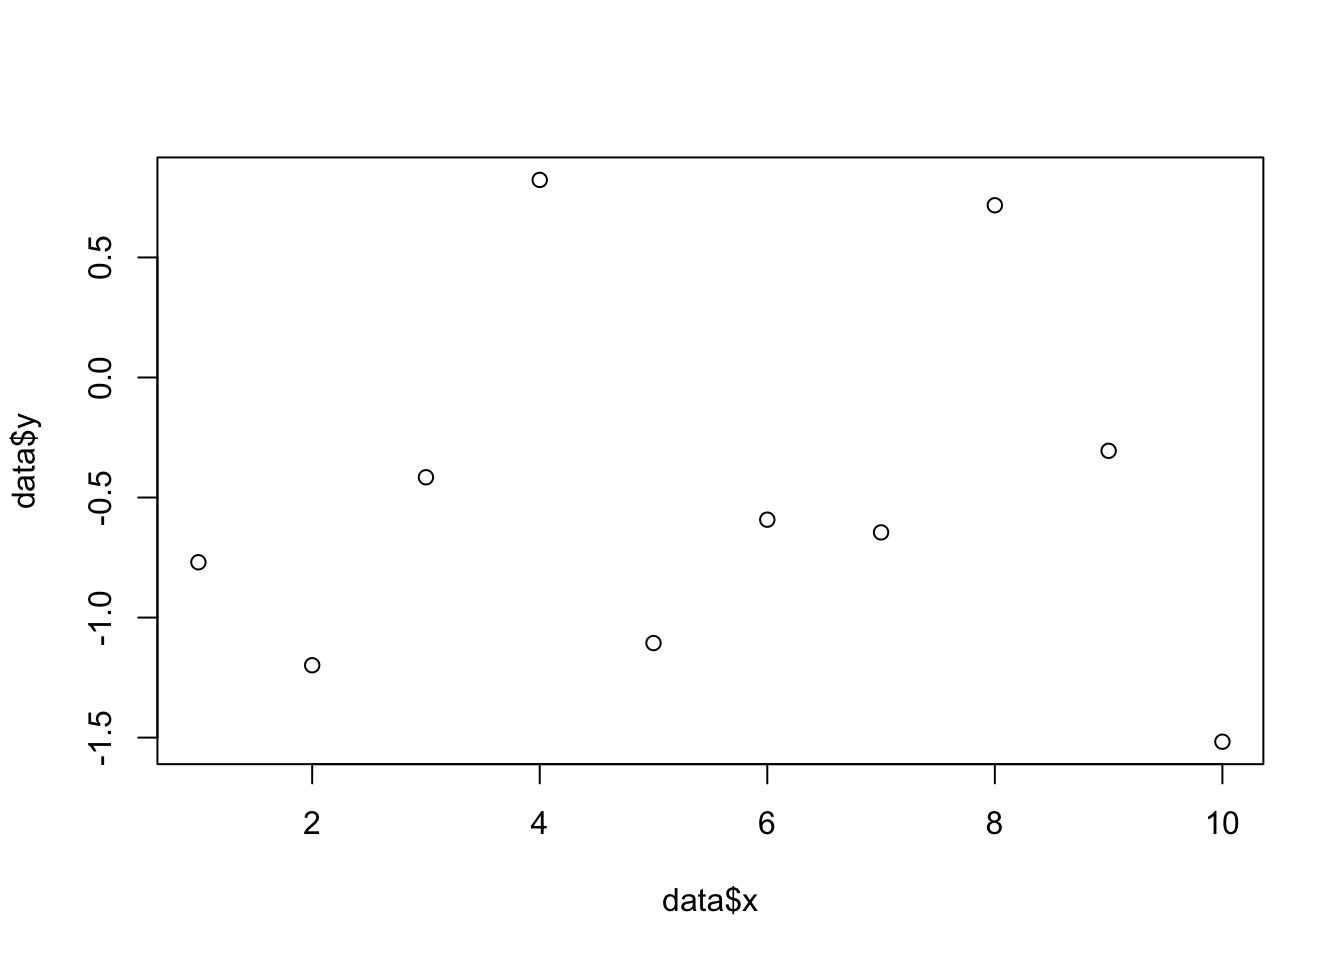
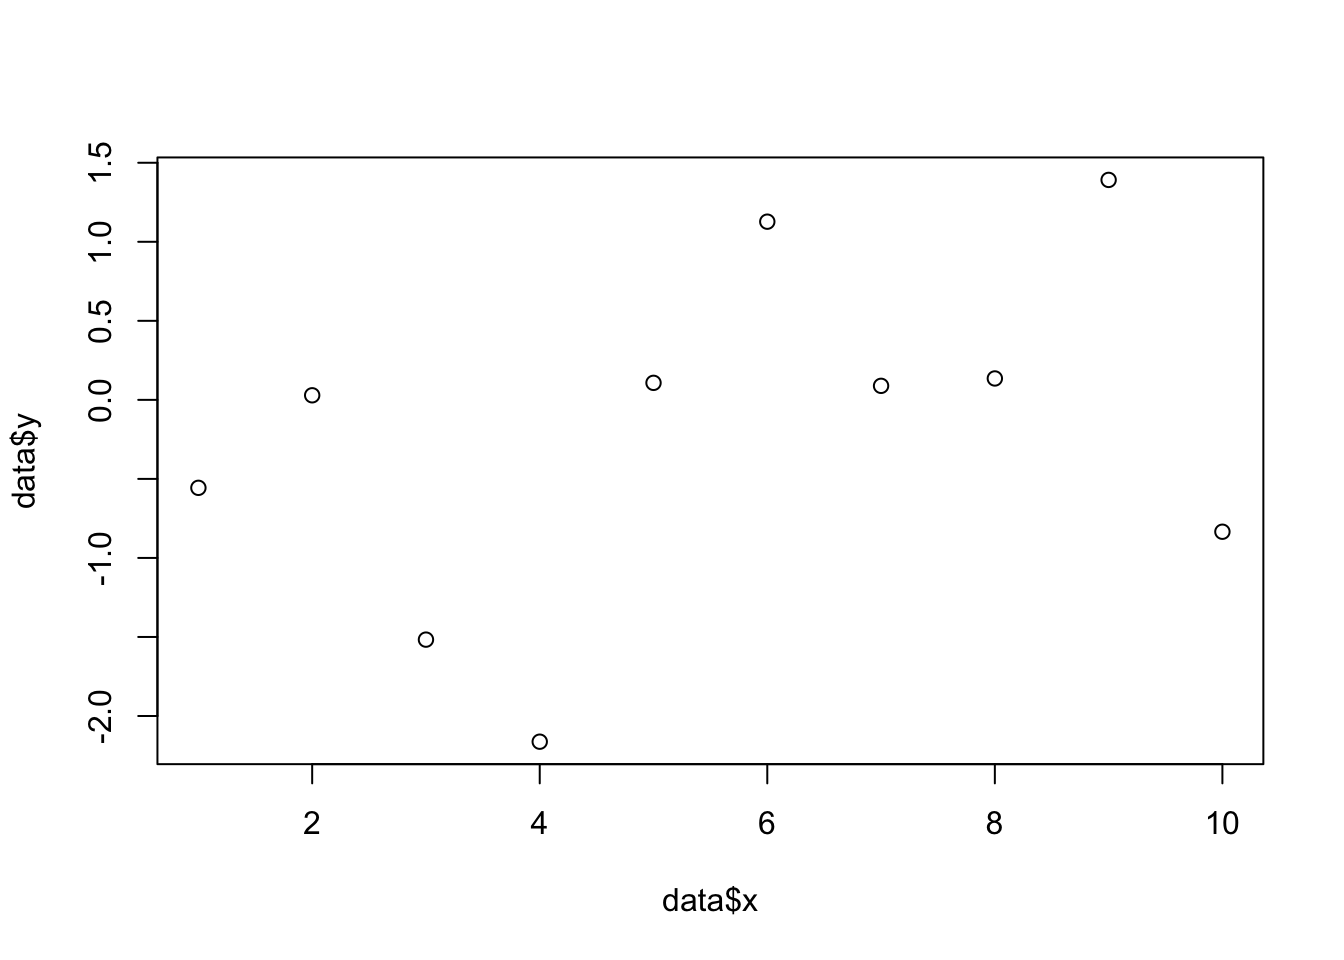
messing with stuff

diff --git a/docs/projects/final-report.html b/docs/projects/final-report.html
@@ -165,7 +165,7 @@ pre > code.sourceCode > span > a:first-child::before { text-decoration: underlin
   <li><a href="#methods" id="toc-methods" class="nav-link" data-scroll-target="#methods">Methods</a>
   <ul class="collapse">
   <li><a href="#for-the-injury-model" id="toc-for-the-injury-model" class="nav-link" data-scroll-target="#for-the-injury-model">For the injury model</a></li>
-  <li><a href="#for-the-non-injury-juvenile-induced-rapid-model" id="toc-for-the-non-injury-juvenile-induced-rapid-model" class="nav-link" data-scroll-target="#for-the-non-injury-juvenile-induced-rapid-model">For the non-injury (juvenile induced) rapid model</a></li>
+  <li><a href="#for-the-no-injury-juvenile-induced-rapid-model" id="toc-for-the-no-injury-juvenile-induced-rapid-model" class="nav-link" data-scroll-target="#for-the-no-injury-juvenile-induced-rapid-model">For the no-injury (juvenile induced) rapid model</a></li>
   </ul></li>
   <li><a href="#results" id="toc-results" class="nav-link" data-scroll-target="#results">Results</a>
   <ul class="collapse">
@@ -229,10 +229,13 @@ pre > code.sourceCode > span > a:first-child::before { text-decoration: underlin
 <h2 class="anchored" data-anchor-id="methods">Methods</h2>
 <section id="for-the-injury-model" class="level3">
 <h3 class="anchored" data-anchor-id="for-the-injury-model">For the injury model</h3>
-<p>Biorender generated workflow image</p>
-<section id="analyses-we-performed" class="level4">
-<h4 class="anchored" data-anchor-id="analyses-we-performed">Analyses we performed</h4>
-<p>We performed flow cytometry, serum blood urea nitrogen (BUN) assay, H&amp;E and PicroSirius histology for cystic analysis and fibrosis measurements on the following groups:</p>
+<section id="workflow" class="level4">
+<h4 class="anchored" data-anchor-id="workflow">Workflow</h4>
+<div class="quarto-figure quarto-figure-left">
+<figure class="figure">
+<p><img src="injury_workflow1.png" class="img-fluid quarto-figure quarto-figure-left figure-img" style="width:60.0%"></p>
+</figure>
+</div>
 </section>
 <section id="experimental-groups" class="level4">
 <h4 class="anchored" data-anchor-id="experimental-groups">Experimental groups</h4>
@@ -279,9 +282,16 @@ pre > code.sourceCode > span > a:first-child::before { text-decoration: underlin
 </table>
 </section>
 </section>
-<section id="for-the-non-injury-juvenile-induced-rapid-model" class="level3">
-<h3 class="anchored" data-anchor-id="for-the-non-injury-juvenile-induced-rapid-model">For the non-injury (juvenile induced) rapid model</h3>
-<p>Biorender generated workflow image</p>
+<section id="for-the-no-injury-juvenile-induced-rapid-model" class="level3">
+<h3 class="anchored" data-anchor-id="for-the-no-injury-juvenile-induced-rapid-model">For the no-injury (juvenile induced) rapid model</h3>
+<section id="workflow-1" class="level4">
+<h4 class="anchored" data-anchor-id="workflow-1">Workflow</h4>
+<div class="quarto-figure quarto-figure-left">
+<figure class="figure">
+<p><img src="noninjury_workflow1.png" class="img-fluid quarto-figure quarto-figure-left figure-img" style="width:60.0%"></p>
+</figure>
+</div>
+</section>
 <section id="experimental-groups-1" class="level4">
 <h4 class="anchored" data-anchor-id="experimental-groups-1">Experimental groups</h4>
 <table class="caption-top table">
@@ -311,6 +321,15 @@ pre > code.sourceCode > span > a:first-child::before { text-decoration: underlin
 </tbody>
 </table>
 </section>
+<section id="analyses-we-performed" class="level4">
+<h4 class="anchored" data-anchor-id="analyses-we-performed">Analyses we performed</h4>
+<p>We performed flow cytometry, cystic analysis on H&amp;E stained tissue, serum blood urea nitrogen (BUN) assay, and fibrosis analysis on PicroSirius stained tissue.</p>
+<div class="quarto-figure quarto-figure-center">
+<figure class="figure">
+<p><img src="readouts1.png" class="img-fluid quarto-figure quarto-figure-center figure-img" style="width:80.0%"></p>
+</figure>
+</div>
+</section>
 </section>
 </section>
 <section id="results" class="level2">
@@ -326,9 +345,13 @@ pre > code.sourceCode > span > a:first-child::before { text-decoration: underlin
 <h3 class="anchored" data-anchor-id="example-code-block">Example Code Block</h3>
 <p>First, here are the packages used for this analysis:</p>
 <div class="cell">
-<div class="code-copy-outer-scaffold"><div class="sourceCode cell-code" id="cb1"><pre class="sourceCode r code-with-copy"><code class="sourceCode r"><span id="cb1-1"><a href="#cb1-1" aria-hidden="true" tabindex="-1"></a><span class="co"># Load a library</span></span>
-<span id="cb1-2"><a href="#cb1-2" aria-hidden="true" tabindex="-1"></a><span class="fu">library</span>(ggplot2)</span>
-<span id="cb1-3"><a href="#cb1-3" aria-hidden="true" tabindex="-1"></a><span class="fu">library</span>(tidyverse)</span></code></pre></div><button title="Copy to Clipboard" class="code-copy-button"><i class="bi"></i></button></div>
+<div class="code-copy-outer-scaffold"><div class="sourceCode cell-code" id="cb1"><pre class="sourceCode r code-with-copy"><code class="sourceCode r"><span id="cb1-1"><a href="#cb1-1" aria-hidden="true" tabindex="-1"></a><span class="co">#| echo: true</span></span>
+<span id="cb1-2"><a href="#cb1-2" aria-hidden="true" tabindex="-1"></a><span class="co">#| message: false</span></span>
+<span id="cb1-3"><a href="#cb1-3" aria-hidden="true" tabindex="-1"></a><span class="co">#| warning: false</span></span>
+<span id="cb1-4"><a href="#cb1-4" aria-hidden="true" tabindex="-1"></a></span>
+<span id="cb1-5"><a href="#cb1-5" aria-hidden="true" tabindex="-1"></a><span class="co"># Load a library</span></span>
+<span id="cb1-6"><a href="#cb1-6" aria-hidden="true" tabindex="-1"></a><span class="fu">library</span>(ggplot2)</span>
+<span id="cb1-7"><a href="#cb1-7" aria-hidden="true" tabindex="-1"></a><span class="fu">library</span>(tidyverse)</span></code></pre></div><button title="Copy to Clipboard" class="code-copy-button"><i class="bi"></i></button></div>
 <div class="cell-output cell-output-stderr">
 <pre><code>── Attaching core tidyverse packages ──────────────────────── tidyverse 2.0.0 ──
 ✔ dplyr     1.2.1     ✔ readr     2.2.0

diff --git a/docs/index.html b/docs/index.html
@@ -129,14 +129,14 @@ ul.task-list li input[type="checkbox"] {
   </div>
 </header><main class="content" id="quarto-document-content">
 <section id="hello" class="level1 columnpage">
-<h1>Hello! 👋</h1>
+<h1>Hello! <i class="bi bi-emoji-laughing"></i></h1>
 <p>Welcome to my research profile website. I’m a student in the Intro to Reproducible Data Analysis Using R course.</p>
 <section id="about-me" class="level2">
-<h2 data-anchor-id="about-me">About Me</h2>
+<h2 data-anchor-id="about-me">About Me <i class="bi bi-person-raised-hand"></i></h2>
 <p><strong>Name:</strong> Morgan Yashchenko (yuh-SHEN-koh)<br> <strong>Institution:</strong> University of Oklahoma Health Campus<br> <strong>Research Interests:</strong> T cells and neutrophils in Polycystic Kidney Disease<br> <strong>Email:</strong> morgan-yashchenko@ou.edu<br></p>
 </section>
 <section id="my-research" class="level2">
-<h2 data-anchor-id="my-research">My Research</h2>
+<h2 data-anchor-id="my-research">My Research <i class="bi bi-beaker"></i></h2>
 <p>I’m interested in understanding how immune cells and inflammation promote rapidly progressing Polycystic Kidney Disease. Through this course, I’ve learned how to:</p>
 <ul style="padding-left: 1rem; margin-left: 0;">
 <li>
@@ -154,7 +154,7 @@ Manage my research projects with Git and GitHub
 </ul>
 </section>
 <section id="this-website" class="level2">
-<h2 data-anchor-id="this-website">This Website</h2>
+<h2 data-anchor-id="this-website">This Website <i class="bi bi-globe"></i></h2>
 <p>This site showcases my research and projects. Check out my <strong>Projects</strong> page to see my final report and other work!</p>
 <p>As my research progresses, I’ll continue adding:</p>
 <ul style="padding-left: 1rem; margin-left: 0;">
